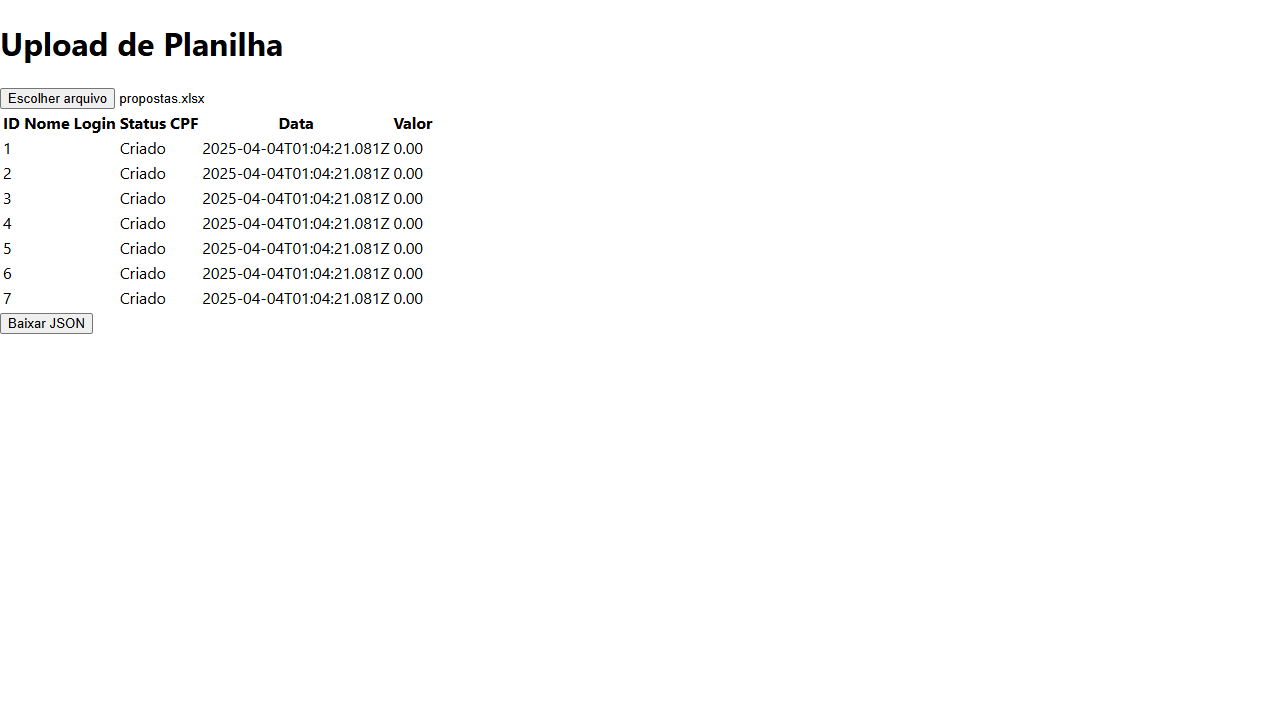
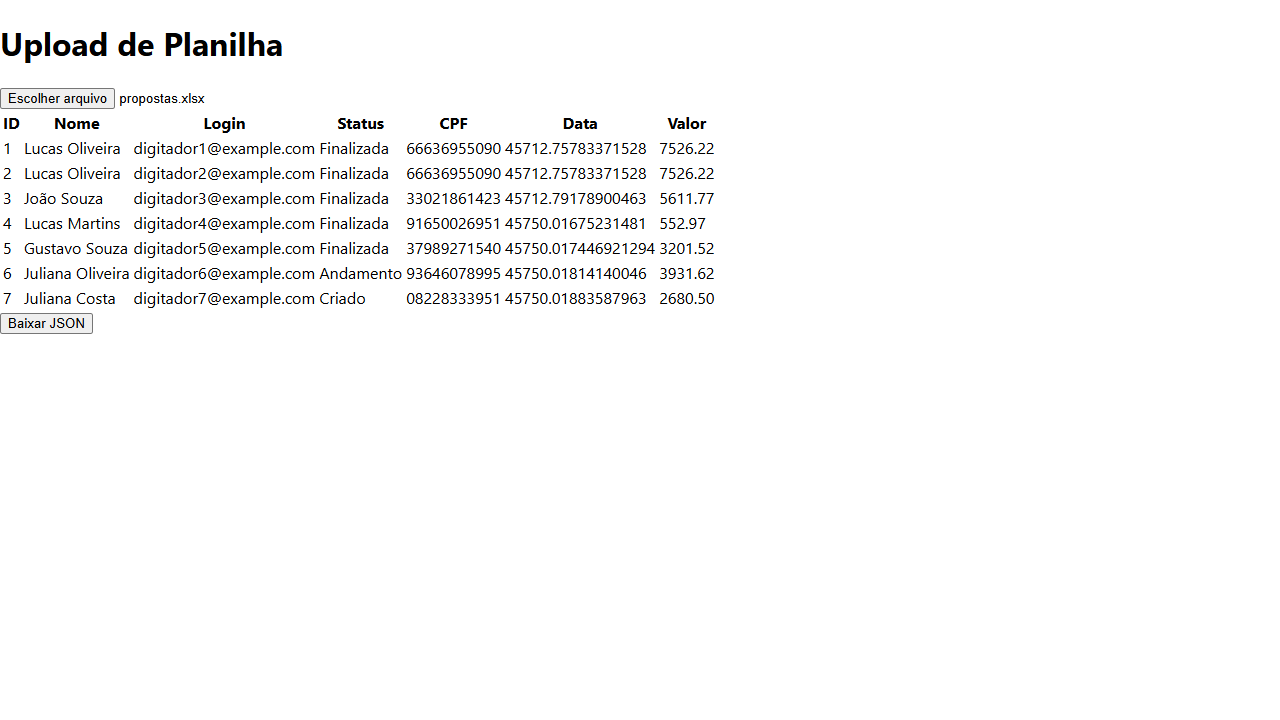
fixed excel titles

Changed region(s): [[0.0, 0.1528, 0.5625, 0.4278]]

diff --git a/scripts/createExcel.ts b/scripts/createExcel.ts
@@ -36,7 +36,15 @@ function exportToExcel(propostas: Proposta[]): string {
     throw new Error('Nenhuma proposta encontrada para exportar');
   }
 
-  const ws = XLSX.utils.json_to_sheet(propostas);
+  const data = propostas.map(p => ({
+    Nome: p.nome,
+    Login: p.login,
+    Status: p.status,
+    CPF: p.cpf,
+    Data: p.data,
+    Valor: p.valor
+  }));
+  const ws = XLSX.utils.json_to_sheet(data);
   const wb = XLSX.utils.book_new();
   XLSX.utils.book_append_sheet(wb, ws, "Propostas");
   
